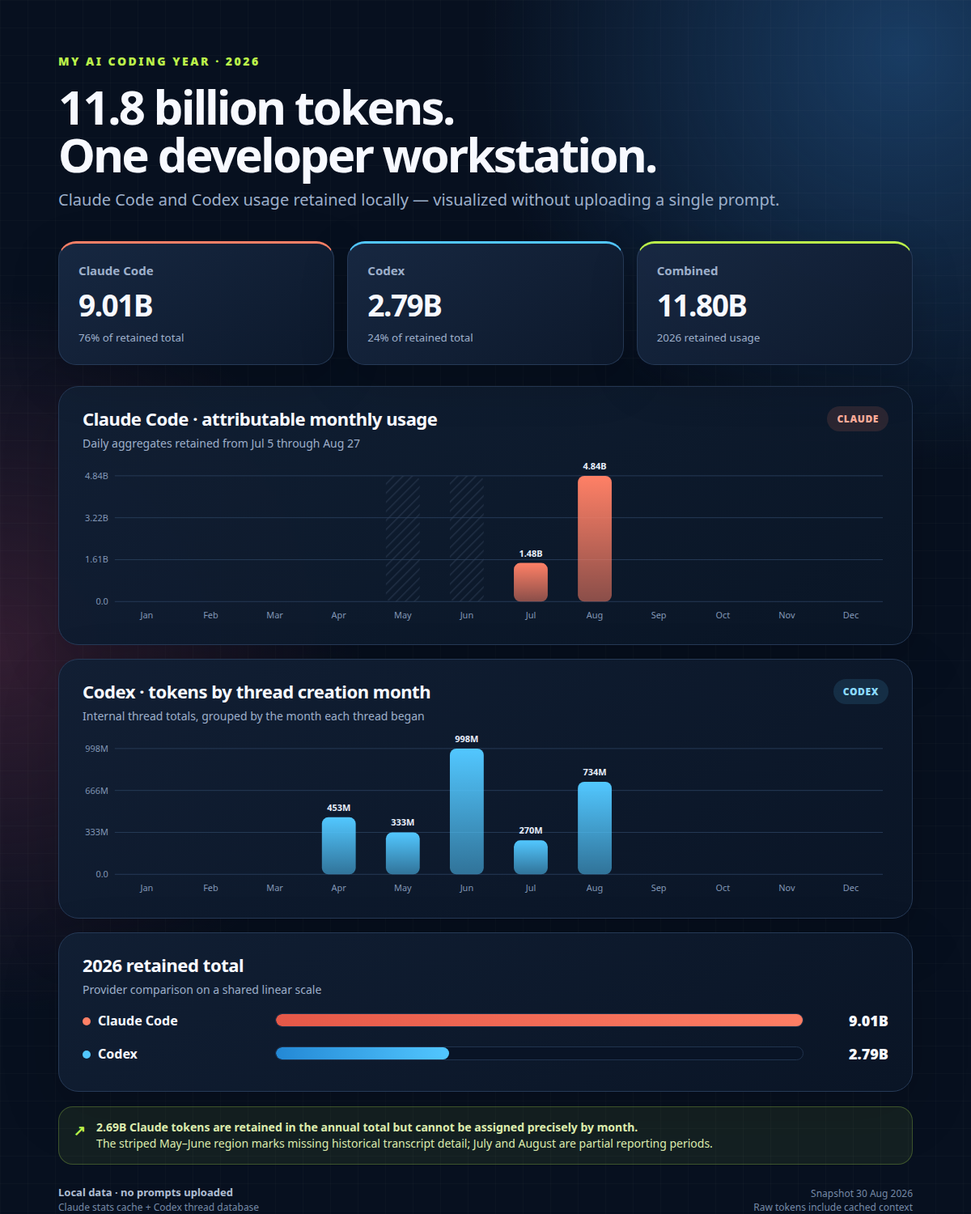
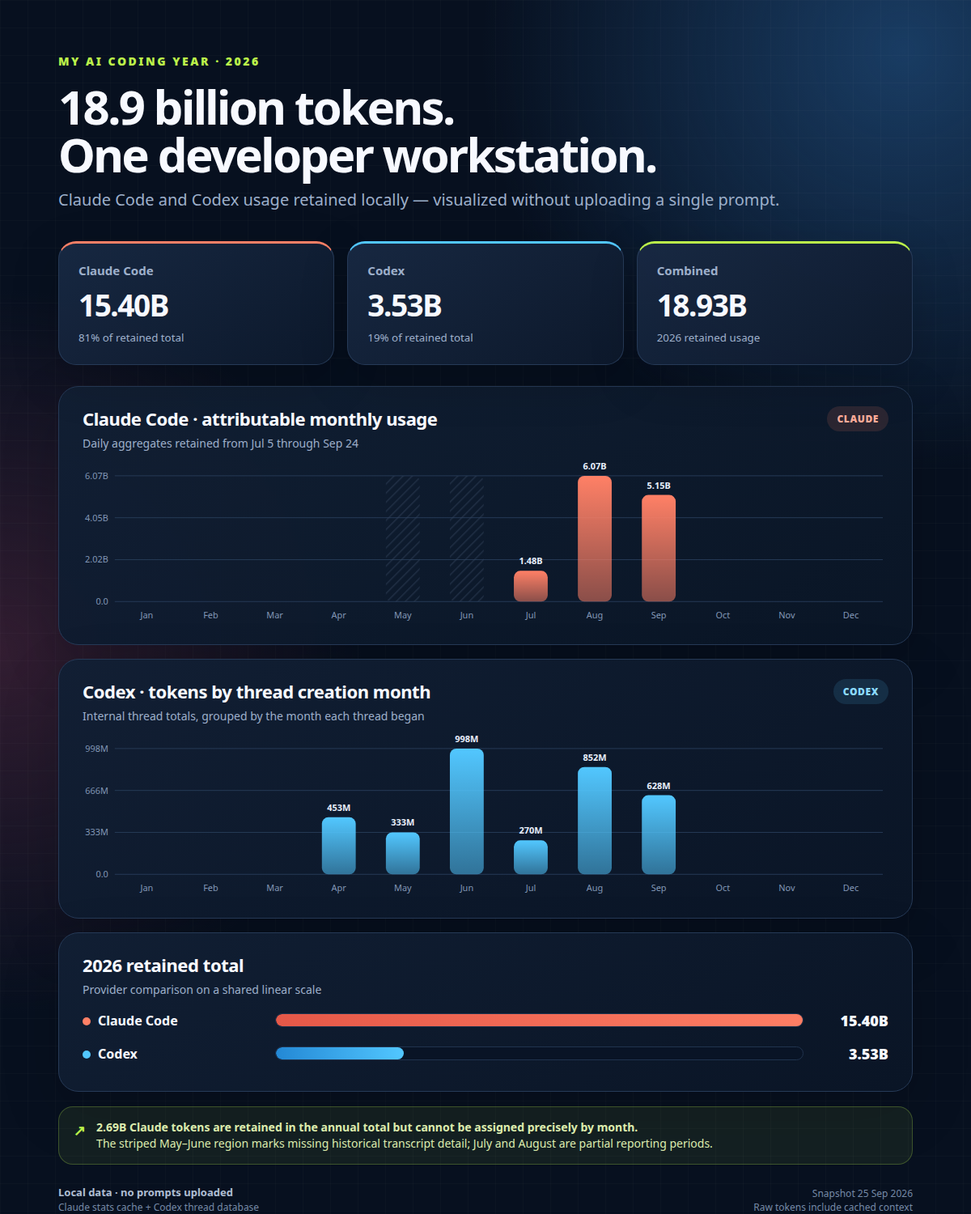
docs(v4): resume 09-27 -- waiting for the .67 link; client pinned, rule amended

diff --git a/tokenUsage/results/year-2026.html b/tokenUsage/results/year-2026.html
@@ -1,4 +1,4 @@
 <!doctype html><html lang="en"><head><meta charset="utf-8"><meta name="viewport" content="width=device-width,initial-scale=1"><title>2026 token usage</title>
 <style>:root{--bg:#08111f;--panel:#111c2e;--text:#e5edf8;--muted:#91a3bb;--line:#24334b}*{box-sizing:border-box}body{margin:0;background:var(--bg);color:var(--text);font:16px system-ui,sans-serif}main{max-width:1260px;margin:auto;padding:44px 28px}h1{font-size:34px;margin:0}.lede,.note{color:var(--muted)}.cards{display:flex;gap:18px;flex-wrap:wrap;margin:28px 0}article,.chart,.table-wrap{background:var(--panel);border:1px solid var(--line);border-radius:16px;padding:22px}article{min-width:260px}article strong{display:block;font-size:30px;margin-top:8px}.chart{overflow-x:auto;margin:18px 0}svg{min-width:900px;width:100%;height:auto}.grid{stroke:var(--line);stroke-width:1}.axis{fill:var(--muted);font-size:12px}.chart-title{fill:var(--text);font-weight:700;font-size:16px}.legend{display:flex;gap:18px;flex-wrap:wrap}.legend span{color:var(--muted);font-size:13px}.legend i{display:inline-block;width:10px;height:10px;border-radius:2px;margin-right:6px}table{width:100%;border-collapse:collapse}th,td{padding:9px 12px;border-bottom:1px solid var(--line);text-align:right}th:first-child,td:first-child{text-align:left}.table-wrap{overflow:auto}.note{font-size:13px;line-height:1.5}</style></head><body><main>
-<h1>2026 Claude Code vs Codex</h1><p class="lede">Monthly buckets from Token Use's normalized local archive.</p><section class="cards"><article>Claude Code<strong>2,720,311,755</strong><span class="lede">raw tokens</span></article><article>Codex<strong>2,496,104,538</strong><span class="lede">raw tokens</span></article><article>Combined<strong>5,216,416,293</strong><span class="lede">raw tokens</span></article></section><div class="legend"><span><i style="background:#fb923c"></i>Claude fresh/input</span><span><i style="background:#fbbf24"></i>Claude output</span><span><i style="background:#7c2d12"></i>Claude cache</span><span><i style="background:#60a5fa"></i>Codex fresh/input</span><span><i style="background:#22d3ee"></i>Codex output</span><span><i style="background:#1e3a8a"></i>Codex cache</span></div><section class="chart"><svg viewBox="0 0 1180 360"><text x="72" y="18" class="chart-title">Monthly total traffic — paired bars: Claude, then Codex</text><line x1="72" y1="305.0" x2="1158" y2="305.0" class="grid"/><text x="63" y="309.0" text-anchor="end" class="axis">0.0</text><line x1="72" y1="235.8" x2="1158" y2="235.8" class="grid"/><text x="63" y="239.8" text-anchor="end" class="axis">671.3M</text><line x1="72" y1="166.5" x2="1158" y2="166.5" class="grid"/><text x="63" y="170.5" text-anchor="end" class="axis">1.34B</text><line x1="72" y1="97.2" x2="1158" y2="97.2" class="grid"/><text x="63" y="101.2" text-anchor="end" class="axis">2.01B</text><line x1="72" y1="28.0" x2="1158" y2="28.0" class="grid"/><text x="63" y="32.0" text-anchor="end" class="axis">2.69B</text><text x="117.2" y="340" text-anchor="middle" class="axis">01</text><text x="207.8" y="340" text-anchor="middle" class="axis">02</text><text x="298.2" y="340" text-anchor="middle" class="axis">03</text><text x="388.8" y="340" text-anchor="middle" class="axis">04</text><rect x="391.8" y="302.7" width="27" height="2.3" fill="#60a5fa"><title>Codex · 2026-04 · fresh tokens: 22,505,279</title></rect><rect x="391.8" y="265.3" width="27" height="37.4" fill="#1e3a8a"><title>Codex · 2026-04 · cache tokens: 362,593,792</title></rect><text x="479.2" y="340" text-anchor="middle" class="axis">05</text><rect x="482.2" y="302.9" width="27" height="2.1" fill="#60a5fa"><title>Codex · 2026-05 · fresh tokens: 20,535,970</title></rect><rect x="482.2" y="266.8" width="27" height="36.1" fill="#1e3a8a"><title>Codex · 2026-05 · cache tokens: 349,762,048</title></rect><text x="569.8" y="340" text-anchor="middle" class="axis">06</text><rect x="572.8" y="301.2" width="27" height="3.8" fill="#60a5fa"><title>Codex · 2026-06 · fresh tokens: 36,946,805</title></rect><rect x="572.8" y="233.9" width="27" height="67.3" fill="#1e3a8a"><title>Codex · 2026-06 · cache tokens: 652,033,536</title></rect><text x="660.2" y="340" text-anchor="middle" class="axis">07</text><rect x="630.2" y="305.0" width="27" height="0.0" fill="#fb923c"><title>Claude · 2026-07 · fresh tokens: 247,169</title></rect><rect x="630.2" y="301.4" width="27" height="3.6" fill="#7c2d12"><title>Claude · 2026-07 · cache tokens: 34,949,691</title></rect><rect x="663.2" y="303.6" width="27" height="1.4" fill="#60a5fa"><title>Codex · 2026-07 · fresh tokens: 13,652,758</title></rect><rect x="663.2" y="272.0" width="27" height="31.6" fill="#1e3a8a"><title>Codex · 2026-07 · cache tokens: 306,686,336</title></rect><text x="750.8" y="340" text-anchor="middle" class="axis">08</text><rect x="720.8" y="256.5" width="27" height="48.5" fill="#fb923c"><title>Claude · 2026-08 · fresh tokens: 470,191,928</title></rect><rect x="720.8" y="28.0" width="27" height="228.5" fill="#7c2d12"><title>Claude · 2026-08 · cache tokens: 2,214,922,967</title></rect><rect x="753.8" y="302.8" width="27" height="2.2" fill="#60a5fa"><title>Codex · 2026-08 · fresh tokens: 21,744,622</title></rect><rect x="753.8" y="229.5" width="27" height="73.2" fill="#1e3a8a"><title>Codex · 2026-08 · cache tokens: 709,643,392</title></rect><text x="841.2" y="340" text-anchor="middle" class="axis">09</text><text x="931.8" y="340" text-anchor="middle" class="axis">10</text><text x="1022.2" y="340" text-anchor="middle" class="axis">11</text><text x="1112.8" y="340" text-anchor="middle" class="axis">12</text></svg></section><section class="chart"><svg viewBox="0 0 1180 360"><text x="72" y="18" class="chart-title">Fresh tokens only — input plus output</text><line x1="72" y1="305.0" x2="1158" y2="305.0" class="grid"/><text x="63" y="309.0" text-anchor="end" class="axis">0.0</text><line x1="72" y1="235.8" x2="1158" y2="235.8" class="grid"/><text x="63" y="239.8" text-anchor="end" class="axis">117.5M</text><line x1="72" y1="166.5" x2="1158" y2="166.5" class="grid"/><text x="63" y="170.5" text-anchor="end" class="axis">235.1M</text><line x1="72" y1="97.2" x2="1158" y2="97.2" class="grid"/><text x="63" y="101.2" text-anchor="end" class="axis">352.6M</text><line x1="72" y1="28.0" x2="1158" y2="28.0" class="grid"/><text x="63" y="32.0" text-anchor="end" class="axis">470.2M</text><text x="117.2" y="340" text-anchor="middle" class="axis">01</text><text x="207.8" y="340" text-anchor="middle" class="axis">02</text><text x="298.2" y="340" text-anchor="middle" class="axis">03</text><text x="388.8" y="340" text-anchor="middle" class="axis">04</text><rect x="391.8" y="292.9" width="27" height="12.1" fill="#60a5fa"><title>Codex · 2026-04 · input tokens: 20,616,260</title></rect><rect x="391.8" y="291.7" width="27" height="1.1" fill="#22d3ee"><title>Codex · 2026-04 · output tokens: 1,889,019</title></rect><text x="479.2" y="340" text-anchor="middle" class="axis">05</text><rect x="482.2" y="293.7" width="27" height="11.3" fill="#60a5fa"><title>Codex · 2026-05 · input tokens: 19,182,025</title></rect><rect x="482.2" y="292.9" width="27" height="0.8" fill="#22d3ee"><title>Codex · 2026-05 · output tokens: 1,353,945</title></rect><text x="569.8" y="340" text-anchor="middle" class="axis">06</text><rect x="572.8" y="284.8" width="27" height="20.2" fill="#60a5fa"><title>Codex · 2026-06 · input tokens: 34,204,767</title></rect><rect x="572.8" y="283.2" width="27" height="1.6" fill="#22d3ee"><title>Codex · 2026-06 · output tokens: 2,742,038</title></rect><text x="660.2" y="340" text-anchor="middle" class="axis">07</text><rect x="630.2" y="305.0" width="27" height="0.0" fill="#fb923c"><title>Claude · 2026-07 · input tokens: 38,837</title></rect><rect x="630.2" y="304.9" width="27" height="0.1" fill="#fbbf24"><title>Claude · 2026-07 · output tokens: 208,332</title></rect><rect x="663.2" y="297.8" width="27" height="7.2" fill="#60a5fa"><title>Codex · 2026-07 · input tokens: 12,161,731</title></rect><rect x="663.2" y="297.0" width="27" height="0.9" fill="#22d3ee"><title>Codex · 2026-07 · output tokens: 1,491,027</title></rect><text x="750.8" y="340" text-anchor="middle" class="axis">08</text><rect x="720.8" y="33.2" width="27" height="271.8" fill="#fb923c"><title>Claude · 2026-08 · input tokens: 461,366,925</title></rect><rect x="720.8" y="28.0" width="27" height="5.2" fill="#fbbf24"><title>Claude · 2026-08 · output tokens: 8,825,003</title></rect><rect x="753.8" y="294.0" width="27" height="11.0" fill="#60a5fa"><title>Codex · 2026-08 · input tokens: 18,686,561</title></rect><rect x="753.8" y="292.2" width="27" height="1.8" fill="#22d3ee"><title>Codex · 2026-08 · output tokens: 3,058,061</title></rect><text x="841.2" y="340" text-anchor="middle" class="axis">09</text><text x="931.8" y="340" text-anchor="middle" class="axis">10</text><text x="1022.2" y="340" text-anchor="middle" class="axis">11</text><text x="1112.8" y="340" text-anchor="middle" class="axis">12</text></svg></section><section class="table-wrap"><table><thead><tr><th>Month</th><th>Claude tokens</th><th>Codex tokens</th><th>Claude sessions</th><th>Codex sessions</th><th>API-equivalent cost</th></tr></thead><tbody><tr><td>2026-01</td><td>0</td><td>0</td><td>0</td><td>0</td><td>$0.00</td></tr><tr><td>2026-02</td><td>0</td><td>0</td><td>0</td><td>0</td><td>$0.00</td></tr><tr><td>2026-03</td><td>0</td><td>0</td><td>0</td><td>0</td><td>$0.00</td></tr><tr><td>2026-04</td><td>0</td><td>385,099,071</td><td>0</td><td>44</td><td>$244.98</td></tr><tr><td>2026-05</td><td>0</td><td>370,298,018</td><td>0</td><td>46</td><td>$311.41</td></tr><tr><td>2026-06</td><td>0</td><td>688,980,341</td><td>0</td><td>66</td><td>$579.30</td></tr><tr><td>2026-07</td><td>35,196,860</td><td>320,339,094</td><td>25</td><td>74</td><td>$276.81</td></tr><tr><td>2026-08</td><td>2,685,114,895</td><td>731,388,014</td><td>270</td><td>44</td><td>$3,285.31</td></tr><tr><td>2026-09</td><td>0</td><td>0</td><td>0</td><td>0</td><td>$0.00</td></tr><tr><td>2026-10</td><td>0</td><td>0</td><td>0</td><td>0</td><td>$0.00</td></tr><tr><td>2026-11</td><td>0</td><td>0</td><td>0</td><td>0</td><td>$0.00</td></tr><tr><td>2026-12</td><td>0</td><td>0</td><td>0</td><td>0</td><td>$0.00</td></tr></tbody></table></section><p class="note">Raw tokens include cache reads and writes. Cost uses Token Use's bundled API prices and may use fallback prices for locally routed models; it is not an invoice or subscription charge.</p>
+<h1>2026 Claude Code vs Codex</h1><p class="lede">Monthly buckets from Token Use's normalized local archive.</p><section class="cards"><article>Claude Code<strong>5,493,354,925</strong><span class="lede">raw tokens</span></article><article>Codex<strong>3,277,974,304</strong><span class="lede">raw tokens</span></article><article>Combined<strong>8,771,329,229</strong><span class="lede">raw tokens</span></article></section><div class="legend"><span><i style="background:#fb923c"></i>Claude fresh/input</span><span><i style="background:#fbbf24"></i>Claude output</span><span><i style="background:#7c2d12"></i>Claude cache</span><span><i style="background:#60a5fa"></i>Codex fresh/input</span><span><i style="background:#22d3ee"></i>Codex output</span><span><i style="background:#1e3a8a"></i>Codex cache</span></div><section class="chart"><svg viewBox="0 0 1180 360"><text x="72" y="18" class="chart-title">Monthly total traffic — paired bars: Claude, then Codex</text><line x1="72" y1="305.0" x2="1158" y2="305.0" class="grid"/><text x="63" y="309.0" text-anchor="end" class="axis">0.0</text><line x1="72" y1="235.8" x2="1158" y2="235.8" class="grid"/><text x="63" y="239.8" text-anchor="end" class="axis">765.2M</text><line x1="72" y1="166.5" x2="1158" y2="166.5" class="grid"/><text x="63" y="170.5" text-anchor="end" class="axis">1.53B</text><line x1="72" y1="97.2" x2="1158" y2="97.2" class="grid"/><text x="63" y="101.2" text-anchor="end" class="axis">2.30B</text><line x1="72" y1="28.0" x2="1158" y2="28.0" class="grid"/><text x="63" y="32.0" text-anchor="end" class="axis">3.06B</text><text x="117.2" y="340" text-anchor="middle" class="axis">01</text><text x="207.8" y="340" text-anchor="middle" class="axis">02</text><text x="298.2" y="340" text-anchor="middle" class="axis">03</text><text x="388.8" y="340" text-anchor="middle" class="axis">04</text><rect x="391.8" y="303.0" width="27" height="2.0" fill="#60a5fa"><title>Codex · 2026-04 · fresh tokens: 22,505,279</title></rect><rect x="391.8" y="270.1" width="27" height="32.8" fill="#1e3a8a"><title>Codex · 2026-04 · cache tokens: 362,593,792</title></rect><text x="479.2" y="340" text-anchor="middle" class="axis">05</text><rect x="482.2" y="303.1" width="27" height="1.9" fill="#60a5fa"><title>Codex · 2026-05 · fresh tokens: 20,535,970</title></rect><rect x="482.2" y="271.5" width="27" height="31.7" fill="#1e3a8a"><title>Codex · 2026-05 · cache tokens: 349,762,048</title></rect><text x="569.8" y="340" text-anchor="middle" class="axis">06</text><rect x="572.8" y="301.7" width="27" height="3.3" fill="#60a5fa"><title>Codex · 2026-06 · fresh tokens: 36,946,805</title></rect><rect x="572.8" y="242.6" width="27" height="59.0" fill="#1e3a8a"><title>Codex · 2026-06 · cache tokens: 652,033,536</title></rect><text x="660.2" y="340" text-anchor="middle" class="axis">07</text><rect x="630.2" y="305.0" width="27" height="0.0" fill="#fb923c"><title>Claude · 2026-07 · fresh tokens: 247,169</title></rect><rect x="630.2" y="301.8" width="27" height="3.2" fill="#7c2d12"><title>Claude · 2026-07 · cache tokens: 34,949,691</title></rect><rect x="663.2" y="303.8" width="27" height="1.2" fill="#60a5fa"><title>Codex · 2026-07 · fresh tokens: 13,652,758</title></rect><rect x="663.2" y="276.0" width="27" height="27.8" fill="#1e3a8a"><title>Codex · 2026-07 · cache tokens: 306,686,336</title></rect><text x="750.8" y="340" text-anchor="middle" class="axis">08</text><rect x="720.8" y="262.4" width="27" height="42.6" fill="#fb923c"><title>Claude · 2026-08 · fresh tokens: 471,257,225</title></rect><rect x="720.8" y="28.0" width="27" height="234.4" fill="#7c2d12"><title>Claude · 2026-08 · cache tokens: 2,589,561,129</title></rect><rect x="753.8" y="302.8" width="27" height="2.2" fill="#60a5fa"><title>Codex · 2026-08 · fresh tokens: 24,498,680</title></rect><rect x="753.8" y="230.6" width="27" height="72.2" fill="#1e3a8a"><title>Codex · 2026-08 · cache tokens: 797,298,048</title></rect><text x="841.2" y="340" text-anchor="middle" class="axis">09</text><rect x="811.2" y="296.7" width="27" height="8.3" fill="#fb923c"><title>Claude · 2026-09 · fresh tokens: 91,337,932</title></rect><rect x="811.2" y="88.0" width="27" height="208.7" fill="#7c2d12"><title>Claude · 2026-09 · cache tokens: 2,306,001,779</title></rect><rect x="844.2" y="302.9" width="27" height="2.1" fill="#60a5fa"><title>Codex · 2026-09 · fresh tokens: 23,567,676</title></rect><rect x="844.2" y="242.4" width="27" height="60.4" fill="#1e3a8a"><title>Codex · 2026-09 · cache tokens: 667,893,376</title></rect><text x="931.8" y="340" text-anchor="middle" class="axis">10</text><text x="1022.2" y="340" text-anchor="middle" class="axis">11</text><text x="1112.8" y="340" text-anchor="middle" class="axis">12</text></svg></section><section class="chart"><svg viewBox="0 0 1180 360"><text x="72" y="18" class="chart-title">Fresh tokens only — input plus output</text><line x1="72" y1="305.0" x2="1158" y2="305.0" class="grid"/><text x="63" y="309.0" text-anchor="end" class="axis">0.0</text><line x1="72" y1="235.8" x2="1158" y2="235.8" class="grid"/><text x="63" y="239.8" text-anchor="end" class="axis">117.8M</text><line x1="72" y1="166.5" x2="1158" y2="166.5" class="grid"/><text x="63" y="170.5" text-anchor="end" class="axis">235.6M</text><line x1="72" y1="97.2" x2="1158" y2="97.2" class="grid"/><text x="63" y="101.2" text-anchor="end" class="axis">353.4M</text><line x1="72" y1="28.0" x2="1158" y2="28.0" class="grid"/><text x="63" y="32.0" text-anchor="end" class="axis">471.3M</text><text x="117.2" y="340" text-anchor="middle" class="axis">01</text><text x="207.8" y="340" text-anchor="middle" class="axis">02</text><text x="298.2" y="340" text-anchor="middle" class="axis">03</text><text x="388.8" y="340" text-anchor="middle" class="axis">04</text><rect x="391.8" y="292.9" width="27" height="12.1" fill="#60a5fa"><title>Codex · 2026-04 · input tokens: 20,616,260</title></rect><rect x="391.8" y="291.8" width="27" height="1.1" fill="#22d3ee"><title>Codex · 2026-04 · output tokens: 1,889,019</title></rect><text x="479.2" y="340" text-anchor="middle" class="axis">05</text><rect x="482.2" y="293.7" width="27" height="11.3" fill="#60a5fa"><title>Codex · 2026-05 · input tokens: 19,182,025</title></rect><rect x="482.2" y="292.9" width="27" height="0.8" fill="#22d3ee"><title>Codex · 2026-05 · output tokens: 1,353,945</title></rect><text x="569.8" y="340" text-anchor="middle" class="axis">06</text><rect x="572.8" y="284.9" width="27" height="20.1" fill="#60a5fa"><title>Codex · 2026-06 · input tokens: 34,204,767</title></rect><rect x="572.8" y="283.3" width="27" height="1.6" fill="#22d3ee"><title>Codex · 2026-06 · output tokens: 2,742,038</title></rect><text x="660.2" y="340" text-anchor="middle" class="axis">07</text><rect x="630.2" y="305.0" width="27" height="0.0" fill="#fb923c"><title>Claude · 2026-07 · input tokens: 38,837</title></rect><rect x="630.2" y="304.9" width="27" height="0.1" fill="#fbbf24"><title>Claude · 2026-07 · output tokens: 208,332</title></rect><rect x="663.2" y="297.9" width="27" height="7.1" fill="#60a5fa"><title>Codex · 2026-07 · input tokens: 12,161,731</title></rect><rect x="663.2" y="297.0" width="27" height="0.9" fill="#22d3ee"><title>Codex · 2026-07 · output tokens: 1,491,027</title></rect><text x="750.8" y="340" text-anchor="middle" class="axis">08</text><rect x="720.8" y="33.8" width="27" height="271.2" fill="#fb923c"><title>Claude · 2026-08 · input tokens: 461,377,477</title></rect><rect x="720.8" y="28.0" width="27" height="5.8" fill="#fbbf24"><title>Claude · 2026-08 · output tokens: 9,879,748</title></rect><rect x="753.8" y="292.6" width="27" height="12.4" fill="#60a5fa"><title>Codex · 2026-08 · input tokens: 21,065,984</title></rect><rect x="753.8" y="290.6" width="27" height="2.0" fill="#22d3ee"><title>Codex · 2026-08 · output tokens: 3,432,696</title></rect><text x="841.2" y="340" text-anchor="middle" class="axis">09</text><rect x="811.2" y="256.8" width="27" height="48.2" fill="#fb923c"><title>Claude · 2026-09 · input tokens: 81,928,522</title></rect><rect x="811.2" y="251.3" width="27" height="5.5" fill="#fbbf24"><title>Claude · 2026-09 · output tokens: 9,409,410</title></rect><rect x="844.2" y="293.2" width="27" height="11.8" fill="#60a5fa"><title>Codex · 2026-09 · input tokens: 20,150,028</title></rect><rect x="844.2" y="291.1" width="27" height="2.0" fill="#22d3ee"><title>Codex · 2026-09 · output tokens: 3,417,648</title></rect><text x="931.8" y="340" text-anchor="middle" class="axis">10</text><text x="1022.2" y="340" text-anchor="middle" class="axis">11</text><text x="1112.8" y="340" text-anchor="middle" class="axis">12</text></svg></section><section class="table-wrap"><table><thead><tr><th>Month</th><th>Claude tokens</th><th>Codex tokens</th><th>Claude sessions</th><th>Codex sessions</th><th>API-equivalent cost</th></tr></thead><tbody><tr><td>2026-01</td><td>0</td><td>0</td><td>0</td><td>0</td><td>$0.00</td></tr><tr><td>2026-02</td><td>0</td><td>0</td><td>0</td><td>0</td><td>$0.00</td></tr><tr><td>2026-03</td><td>0</td><td>0</td><td>0</td><td>0</td><td>$0.00</td></tr><tr><td>2026-04</td><td>0</td><td>385,099,071</td><td>0</td><td>44</td><td>$244.98</td></tr><tr><td>2026-05</td><td>0</td><td>370,298,018</td><td>0</td><td>46</td><td>$311.41</td></tr><tr><td>2026-06</td><td>0</td><td>688,980,341</td><td>0</td><td>66</td><td>$579.30</td></tr><tr><td>2026-07</td><td>35,196,860</td><td>320,339,094</td><td>25</td><td>74</td><td>$276.81</td></tr><tr><td>2026-08</td><td>3,060,818,354</td><td>821,796,728</td><td>289</td><td>52</td><td>$3,595.63</td></tr><tr><td>2026-09</td><td>2,397,339,711</td><td>691,461,052</td><td>588</td><td>58</td><td>$2,544.40</td></tr><tr><td>2026-10</td><td>0</td><td>0</td><td>0</td><td>0</td><td>$0.00</td></tr><tr><td>2026-11</td><td>0</td><td>0</td><td>0</td><td>0</td><td>$0.00</td></tr><tr><td>2026-12</td><td>0</td><td>0</td><td>0</td><td>0</td><td>$0.00</td></tr></tbody></table></section><p class="note">Raw tokens include cache reads and writes. Cost uses Token Use's bundled API prices and may use fallback prices for locally routed models; it is not an invoice or subscription charge.</p>
 </main></body></html>

diff --git a/tokenUsage/results/linkedin-2026.html b/tokenUsage/results/linkedin-2026.html
@@ -10,9 +10,9 @@ header,.content,footer{position:relative}.eyebrow{color:var(--lime);font-weight:
 .panel{background:linear-gradient(150deg,rgba(17,31,52,.96),rgba(10,21,38,.96));border:1px solid var(--line);border-radius:25px;padding:24px 24px 17px;margin-top:17px;box-shadow:0 24px 70px rgba(0,0,0,.18)}.panel-head{display:flex;justify-content:space-between;align-items:flex-start;margin:0 5px 3px}.panel h2{font-size:22px;margin:0;letter-spacing:-.02em}.panel p{color:var(--muted);font-size:14px;margin:6px 0 0}.badge{border-radius:999px;padding:7px 12px;font-size:12px;font-weight:800;letter-spacing:.05em}.badge.claude{background:rgba(255,128,102,.13);color:#ffab98}.badge.codex{background:rgba(82,199,255,.13);color:#8cdbff}svg{display:block;width:100%;height:auto}.grid{stroke:var(--line);stroke-width:1}.axis,.month{fill:#8297b6;font-size:11px}.value{fill:#e8effc;font-size:11px;font-weight:750}
 .year{display:grid;grid-template-columns:225px 1fr 92px;gap:13px;align-items:center;margin:17px 5px}.year-label{font-weight:750}.year-label i{display:inline-block;width:10px;height:10px;border-radius:50%;margin-right:9px}.track{height:17px;background:#091426;border-radius:999px;overflow:hidden;border:1px solid #20334e}.fill{height:100%;border-radius:999px}.fill.claude{background:linear-gradient(90deg,#e55848,var(--claude))}.fill.codex{background:linear-gradient(90deg,#2388d5,var(--codex))}.year-value{text-align:right;font-weight:850;font-size:18px}.callout{display:flex;gap:13px;align-items:flex-start;background:rgba(188,243,74,.075);border:1px solid rgba(188,243,74,.25);border-radius:18px;padding:15px 18px;margin-top:18px;color:#dcebad;font-size:14px;line-height:1.45}.callout b{font-size:18px;color:var(--lime)}
 footer{display:flex;justify-content:space-between;align-items:flex-end;color:#7589a6;font-size:12px;margin-top:25px;line-height:1.45}footer strong{display:block;color:#aebdd2;font-size:13px}@media(max-width:800px){.poster{width:100%;min-height:100vh;padding:36px 22px}h1{font-size:40px}.hero{grid-template-columns:1fr}.panel{overflow-x:auto}.panel>svg{min-width:820px}}
-</style></head><body><main class="poster"><header><div class="eyebrow">My AI coding year · 2026</div><h1>11.8 billion tokens.<br>One developer workstation.</h1><p class="subtitle">Claude Code and Codex usage retained locally — visualized without uploading a single prompt.</p></header><div class="content"><section class="hero"><article class="metric claude"><span>Claude Code</span><strong>9.01B</strong><small>76% of retained total</small></article><article class="metric codex"><span>Codex</span><strong>2.79B</strong><small>24% of retained total</small></article><article class="metric total"><span>Combined</span><strong>11.80B</strong><small>2026 retained usage</small></article></section>
-<section class="panel"><div class="panel-head"><div><h2>Claude Code · attributable monthly usage</h2><p>Daily aggregates retained from Jul 5 through Aug 27</p></div><span class="badge claude">CLAUDE</span></div><svg viewBox="0 0 1010 220" aria-hidden="true"><defs><linearGradient id="claudeGradient" x1="0" y1="1" x2="0" y2="0"><stop offset="0" stop-color="#ff8066" stop-opacity=".52"/><stop offset="1" stop-color="#ff8066"/></linearGradient><pattern id="missing" width="8" height="8" patternUnits="userSpaceOnUse" patternTransform="rotate(45)"><line x1="0" y1="0" x2="0" y2="8" stroke="#34445d" stroke-width="3"/></pattern></defs><line x1="45" y1="184.0" x2="998" y2="184.0" class="grid"/><text x="37" y="188.0" text-anchor="end" class="axis">0.0</text><line x1="45" y1="132.0" x2="998" y2="132.0" class="grid"/><text x="37" y="136.0" text-anchor="end" class="axis">1.61B</text><line x1="45" y1="80.0" x2="998" y2="80.0" class="grid"/><text x="37" y="84.0" text-anchor="end" class="axis">3.22B</text><line x1="45" y1="28.0" x2="998" y2="28.0" class="grid"/><text x="37" y="32.0" text-anchor="end" class="axis">4.84B</text><text x="84.7" y="205" text-anchor="middle" class="month">Jan</text><text x="164.1" y="205" text-anchor="middle" class="month">Feb</text><text x="243.5" y="205" text-anchor="middle" class="month">Mar</text><text x="323.0" y="205" text-anchor="middle" class="month">Apr</text><rect x="381.4" y="28" width="42" height="156" rx="7" fill="url(#missing)" opacity=".5"/><text x="402.4" y="205" text-anchor="middle" class="month">May</text><rect x="460.8" y="28" width="42" height="156" rx="7" fill="url(#missing)" opacity=".5"/><text x="481.8" y="205" text-anchor="middle" class="month">Jun</text><rect x="540.2" y="136.1" width="42" height="47.9" rx="8" fill="url(#claudeGradient)"><title>1,483,497,206 tokens</title></rect><text x="561.2" y="128.1" text-anchor="middle" class="value">1.48B</text><text x="561.2" y="205" text-anchor="middle" class="month">Jul</text><rect x="619.6" y="28.0" width="42" height="156.0" rx="8" fill="url(#claudeGradient)"><title>4,835,934,521 tokens</title></rect><text x="640.6" y="20.0" text-anchor="middle" class="value">4.84B</text><text x="640.6" y="205" text-anchor="middle" class="month">Aug</text><text x="720.0" y="205" text-anchor="middle" class="month">Sep</text><text x="799.5" y="205" text-anchor="middle" class="month">Oct</text><text x="878.9" y="205" text-anchor="middle" class="month">Nov</text><text x="958.3" y="205" text-anchor="middle" class="month">Dec</text></svg></section>
-<section class="panel"><div class="panel-head"><div><h2>Codex · tokens by thread creation month</h2><p>Internal thread totals, grouped by the month each thread began</p></div><span class="badge codex">CODEX</span></div><svg viewBox="0 0 1010 220" aria-hidden="true"><defs><linearGradient id="codexGradient" x1="0" y1="1" x2="0" y2="0"><stop offset="0" stop-color="#52c7ff" stop-opacity=".52"/><stop offset="1" stop-color="#52c7ff"/></linearGradient><pattern id="missing" width="8" height="8" patternUnits="userSpaceOnUse" patternTransform="rotate(45)"><line x1="0" y1="0" x2="0" y2="8" stroke="#34445d" stroke-width="3"/></pattern></defs><line x1="45" y1="184.0" x2="998" y2="184.0" class="grid"/><text x="37" y="188.0" text-anchor="end" class="axis">0.0</text><line x1="45" y1="132.0" x2="998" y2="132.0" class="grid"/><text x="37" y="136.0" text-anchor="end" class="axis">333M</text><line x1="45" y1="80.0" x2="998" y2="80.0" class="grid"/><text x="37" y="84.0" text-anchor="end" class="axis">666M</text><line x1="45" y1="28.0" x2="998" y2="28.0" class="grid"/><text x="37" y="32.0" text-anchor="end" class="axis">998M</text><text x="84.7" y="205" text-anchor="middle" class="month">Jan</text><text x="164.1" y="205" text-anchor="middle" class="month">Feb</text><text x="243.5" y="205" text-anchor="middle" class="month">Mar</text><rect x="302.0" y="113.3" width="42" height="70.7" rx="8" fill="url(#codexGradient)"><title>452,596,869 tokens</title></rect><text x="323.0" y="105.3" text-anchor="middle" class="value">453M</text><text x="323.0" y="205" text-anchor="middle" class="month">Apr</text><rect x="381.4" y="131.9" width="42" height="52.1" rx="8" fill="url(#codexGradient)"><title>333,435,941 tokens</title></rect><text x="402.4" y="123.9" text-anchor="middle" class="value">333M</text><text x="402.4" y="205" text-anchor="middle" class="month">May</text><rect x="460.8" y="28.0" width="42" height="156.0" rx="8" fill="url(#codexGradient)"><title>998,269,803 tokens</title></rect><text x="481.8" y="20.0" text-anchor="middle" class="value">998M</text><text x="481.8" y="205" text-anchor="middle" class="month">Jun</text><rect x="540.2" y="141.9" width="42" height="42.1" rx="8" fill="url(#codexGradient)"><title>269,688,558 tokens</title></rect><text x="561.2" y="133.9" text-anchor="middle" class="value">270M</text><text x="561.2" y="205" text-anchor="middle" class="month">Jul</text><rect x="619.6" y="69.3" width="42" height="114.7" rx="8" fill="url(#codexGradient)"><title>733,906,528 tokens</title></rect><text x="640.6" y="61.3" text-anchor="middle" class="value">734M</text><text x="640.6" y="205" text-anchor="middle" class="month">Aug</text><text x="720.0" y="205" text-anchor="middle" class="month">Sep</text><text x="799.5" y="205" text-anchor="middle" class="month">Oct</text><text x="878.9" y="205" text-anchor="middle" class="month">Nov</text><text x="958.3" y="205" text-anchor="middle" class="month">Dec</text></svg></section>
-<section class="panel"><div class="panel-head"><div><h2>2026 retained total</h2><p>Provider comparison on a shared linear scale</p></div></div><div class="year"><div class="year-label"><i style="background:var(--claude)"></i>Claude Code</div><div class="track"><div class="fill claude" style="width:690.0px"></div></div><div class="year-value">9.01B</div></div><div class="year"><div class="year-label"><i style="background:var(--codex)"></i>Codex</div><div class="track"><div class="fill codex" style="width:213.5px"></div></div><div class="year-value">2.79B</div></div></section>
+</style></head><body><main class="poster"><header><div class="eyebrow">My AI coding year · 2026</div><h1>18.9 billion tokens.<br>One developer workstation.</h1><p class="subtitle">Claude Code and Codex usage retained locally — visualized without uploading a single prompt.</p></header><div class="content"><section class="hero"><article class="metric claude"><span>Claude Code</span><strong>15.40B</strong><small>81% of retained total</small></article><article class="metric codex"><span>Codex</span><strong>3.53B</strong><small>19% of retained total</small></article><article class="metric total"><span>Combined</span><strong>18.93B</strong><small>2026 retained usage</small></article></section>
+<section class="panel"><div class="panel-head"><div><h2>Claude Code · attributable monthly usage</h2><p>Daily aggregates retained from Jul 5 through Sep 24</p></div><span class="badge claude">CLAUDE</span></div><svg viewBox="0 0 1010 220" aria-hidden="true"><defs><linearGradient id="claudeGradient" x1="0" y1="1" x2="0" y2="0"><stop offset="0" stop-color="#ff8066" stop-opacity=".52"/><stop offset="1" stop-color="#ff8066"/></linearGradient><pattern id="missing" width="8" height="8" patternUnits="userSpaceOnUse" patternTransform="rotate(45)"><line x1="0" y1="0" x2="0" y2="8" stroke="#34445d" stroke-width="3"/></pattern></defs><line x1="45" y1="184.0" x2="998" y2="184.0" class="grid"/><text x="37" y="188.0" text-anchor="end" class="axis">0.0</text><line x1="45" y1="132.0" x2="998" y2="132.0" class="grid"/><text x="37" y="136.0" text-anchor="end" class="axis">2.02B</text><line x1="45" y1="80.0" x2="998" y2="80.0" class="grid"/><text x="37" y="84.0" text-anchor="end" class="axis">4.05B</text><line x1="45" y1="28.0" x2="998" y2="28.0" class="grid"/><text x="37" y="32.0" text-anchor="end" class="axis">6.07B</text><text x="84.7" y="205" text-anchor="middle" class="month">Jan</text><text x="164.1" y="205" text-anchor="middle" class="month">Feb</text><text x="243.5" y="205" text-anchor="middle" class="month">Mar</text><text x="323.0" y="205" text-anchor="middle" class="month">Apr</text><rect x="381.4" y="28" width="42" height="156" rx="7" fill="url(#missing)" opacity=".5"/><text x="402.4" y="205" text-anchor="middle" class="month">May</text><rect x="460.8" y="28" width="42" height="156" rx="7" fill="url(#missing)" opacity=".5"/><text x="481.8" y="205" text-anchor="middle" class="month">Jun</text><rect x="540.2" y="145.9" width="42" height="38.1" rx="8" fill="url(#claudeGradient)"><title>1,483,497,206 tokens</title></rect><text x="561.2" y="137.9" text-anchor="middle" class="value">1.48B</text><text x="561.2" y="205" text-anchor="middle" class="month">Jul</text><rect x="619.6" y="28.0" width="42" height="156.0" rx="8" fill="url(#claudeGradient)"><title>6,074,948,374 tokens</title></rect><text x="640.6" y="20.0" text-anchor="middle" class="value">6.07B</text><text x="640.6" y="205" text-anchor="middle" class="month">Aug</text><rect x="699.0" y="51.8" width="42" height="132.2" rx="8" fill="url(#claudeGradient)"><title>5,149,398,259 tokens</title></rect><text x="720.0" y="43.8" text-anchor="middle" class="value">5.15B</text><text x="720.0" y="205" text-anchor="middle" class="month">Sep</text><text x="799.5" y="205" text-anchor="middle" class="month">Oct</text><text x="878.9" y="205" text-anchor="middle" class="month">Nov</text><text x="958.3" y="205" text-anchor="middle" class="month">Dec</text></svg></section>
+<section class="panel"><div class="panel-head"><div><h2>Codex · tokens by thread creation month</h2><p>Internal thread totals, grouped by the month each thread began</p></div><span class="badge codex">CODEX</span></div><svg viewBox="0 0 1010 220" aria-hidden="true"><defs><linearGradient id="codexGradient" x1="0" y1="1" x2="0" y2="0"><stop offset="0" stop-color="#52c7ff" stop-opacity=".52"/><stop offset="1" stop-color="#52c7ff"/></linearGradient><pattern id="missing" width="8" height="8" patternUnits="userSpaceOnUse" patternTransform="rotate(45)"><line x1="0" y1="0" x2="0" y2="8" stroke="#34445d" stroke-width="3"/></pattern></defs><line x1="45" y1="184.0" x2="998" y2="184.0" class="grid"/><text x="37" y="188.0" text-anchor="end" class="axis">0.0</text><line x1="45" y1="132.0" x2="998" y2="132.0" class="grid"/><text x="37" y="136.0" text-anchor="end" class="axis">333M</text><line x1="45" y1="80.0" x2="998" y2="80.0" class="grid"/><text x="37" y="84.0" text-anchor="end" class="axis">666M</text><line x1="45" y1="28.0" x2="998" y2="28.0" class="grid"/><text x="37" y="32.0" text-anchor="end" class="axis">998M</text><text x="84.7" y="205" text-anchor="middle" class="month">Jan</text><text x="164.1" y="205" text-anchor="middle" class="month">Feb</text><text x="243.5" y="205" text-anchor="middle" class="month">Mar</text><rect x="302.0" y="113.3" width="42" height="70.7" rx="8" fill="url(#codexGradient)"><title>452,596,869 tokens</title></rect><text x="323.0" y="105.3" text-anchor="middle" class="value">453M</text><text x="323.0" y="205" text-anchor="middle" class="month">Apr</text><rect x="381.4" y="131.9" width="42" height="52.1" rx="8" fill="url(#codexGradient)"><title>333,435,941 tokens</title></rect><text x="402.4" y="123.9" text-anchor="middle" class="value">333M</text><text x="402.4" y="205" text-anchor="middle" class="month">May</text><rect x="460.8" y="28.0" width="42" height="156.0" rx="8" fill="url(#codexGradient)"><title>998,269,803 tokens</title></rect><text x="481.8" y="20.0" text-anchor="middle" class="value">998M</text><text x="481.8" y="205" text-anchor="middle" class="month">Jun</text><rect x="540.2" y="141.9" width="42" height="42.1" rx="8" fill="url(#codexGradient)"><title>269,688,558 tokens</title></rect><text x="561.2" y="133.9" text-anchor="middle" class="value">270M</text><text x="561.2" y="205" text-anchor="middle" class="month">Jul</text><rect x="619.6" y="50.9" width="42" height="133.1" rx="8" fill="url(#codexGradient)"><title>851,878,365 tokens</title></rect><text x="640.6" y="42.9" text-anchor="middle" class="value">852M</text><text x="640.6" y="205" text-anchor="middle" class="month">Aug</text><rect x="699.0" y="85.9" width="42" height="98.1" rx="8" fill="url(#codexGradient)"><title>627,756,922 tokens</title></rect><text x="720.0" y="77.9" text-anchor="middle" class="value">628M</text><text x="720.0" y="205" text-anchor="middle" class="month">Sep</text><text x="799.5" y="205" text-anchor="middle" class="month">Oct</text><text x="878.9" y="205" text-anchor="middle" class="month">Nov</text><text x="958.3" y="205" text-anchor="middle" class="month">Dec</text></svg></section>
+<section class="panel"><div class="panel-head"><div><h2>2026 retained total</h2><p>Provider comparison on a shared linear scale</p></div></div><div class="year"><div class="year-label"><i style="background:var(--claude)"></i>Claude Code</div><div class="track"><div class="fill claude" style="width:690.0px"></div></div><div class="year-value">15.40B</div></div><div class="year"><div class="year-label"><i style="background:var(--codex)"></i>Codex</div><div class="track"><div class="fill codex" style="width:158.3px"></div></div><div class="year-value">3.53B</div></div></section>
 <div class="callout"><b>↗</b><div><strong>2.69B Claude tokens are retained in the annual total but cannot be assigned precisely by month.</strong><br>The striped May–June region marks missing historical transcript detail; July and August are partial reporting periods.</div></div></div>
-<footer><div><strong>Local data · no prompts uploaded</strong>Claude stats cache + Codex thread database</div><div style="text-align:right">Snapshot 30 Aug 2026<br>Raw tokens include cached context</div></footer></main></body></html>
+<footer><div><strong>Local data · no prompts uploaded</strong>Claude stats cache + Codex thread database</div><div style="text-align:right">Snapshot 25 Sep 2026<br>Raw tokens include cached context</div></footer></main></body></html>

diff --git a/ollamaClaudeCode_v4_tielCoder/ROUND_2026-09-24.md b/ollamaClaudeCode_v4_tielCoder/ROUND_2026-09-24.md
@@ -3,7 +3,7 @@
 This file is updated and committed after every step. **Review of the round: `review_20260925.md`.** **Every model found, with its decision: `CANDIDATE_REGISTER.md`.** **Dashboard: `dashboard.html`** (`./make-dashboard.py`, regenerated after every candidate). `ROUND_2026-09-21.md` covers what
 led up to it.
 
-## Resume here: STOPPED by the owner 2026-09-25 16:20
+## Resume here: STOPPED by the owner 2026-09-25 16:20, resumed 2026-09-27
 
 **Nothing is running.** The owner stopped the benchmark at 16:20. The extended round's first pass
 (qwen3.6, 1 of 46 trials) was cut and moved to `terminalbench/official/runs/void-stopped-20260925/`,
@@ -20,6 +20,15 @@ and the model was unloaded from `.67`. The Laguna screen had not started.
 | R3 presence_penalty 1.5 vs 0 (KAT) | **−34% generation** (77 vs 117 tok/s at 2k). Ollama **does** apply it on this path, contrary to ollama#14493. Keep 0 |
 | R5 overflow (KAT) | **silently halves** (prompt_eval 131,074 ≈ num_ctx/2). Keep `CLAUDE_CODE_MAX_CONTEXT_TOKENS=200000` |
 | oracle on the 30 extended tasks | 23 pass. **7 dropped as defective**: build-linux-kernel-qemu, cron-broken-network, eval-mteb, polyglot-rust-c, run-pdp11-code, solana-data, swe-bench-astropy-1 (`subset-ext-scored.txt`) |
+
+**09-27:** `.67` is reachable only via the USB ethernet adapter, which was unplugged, so the chain waits
+for the server and starts by itself when it answers. Two fixes before the extended round, both made
+before any extended data exists:
+- **Client pinned in the containers.** Terminal-Bench installed `claude-code@latest`, so the references
+  ran 2.1.278 and the candidates 2.1.281–282. Now `TB_CC_VERSION` is pinned to the host's client for
+  both models of the pair.
+- **Decision on the extended tasks alone.** The pooled figure mixes client versions, so it is
+  information only (the amended rule is in `ext-compare.py` and `s11-ext.sh`).
 
 **Left, in order:**
 
